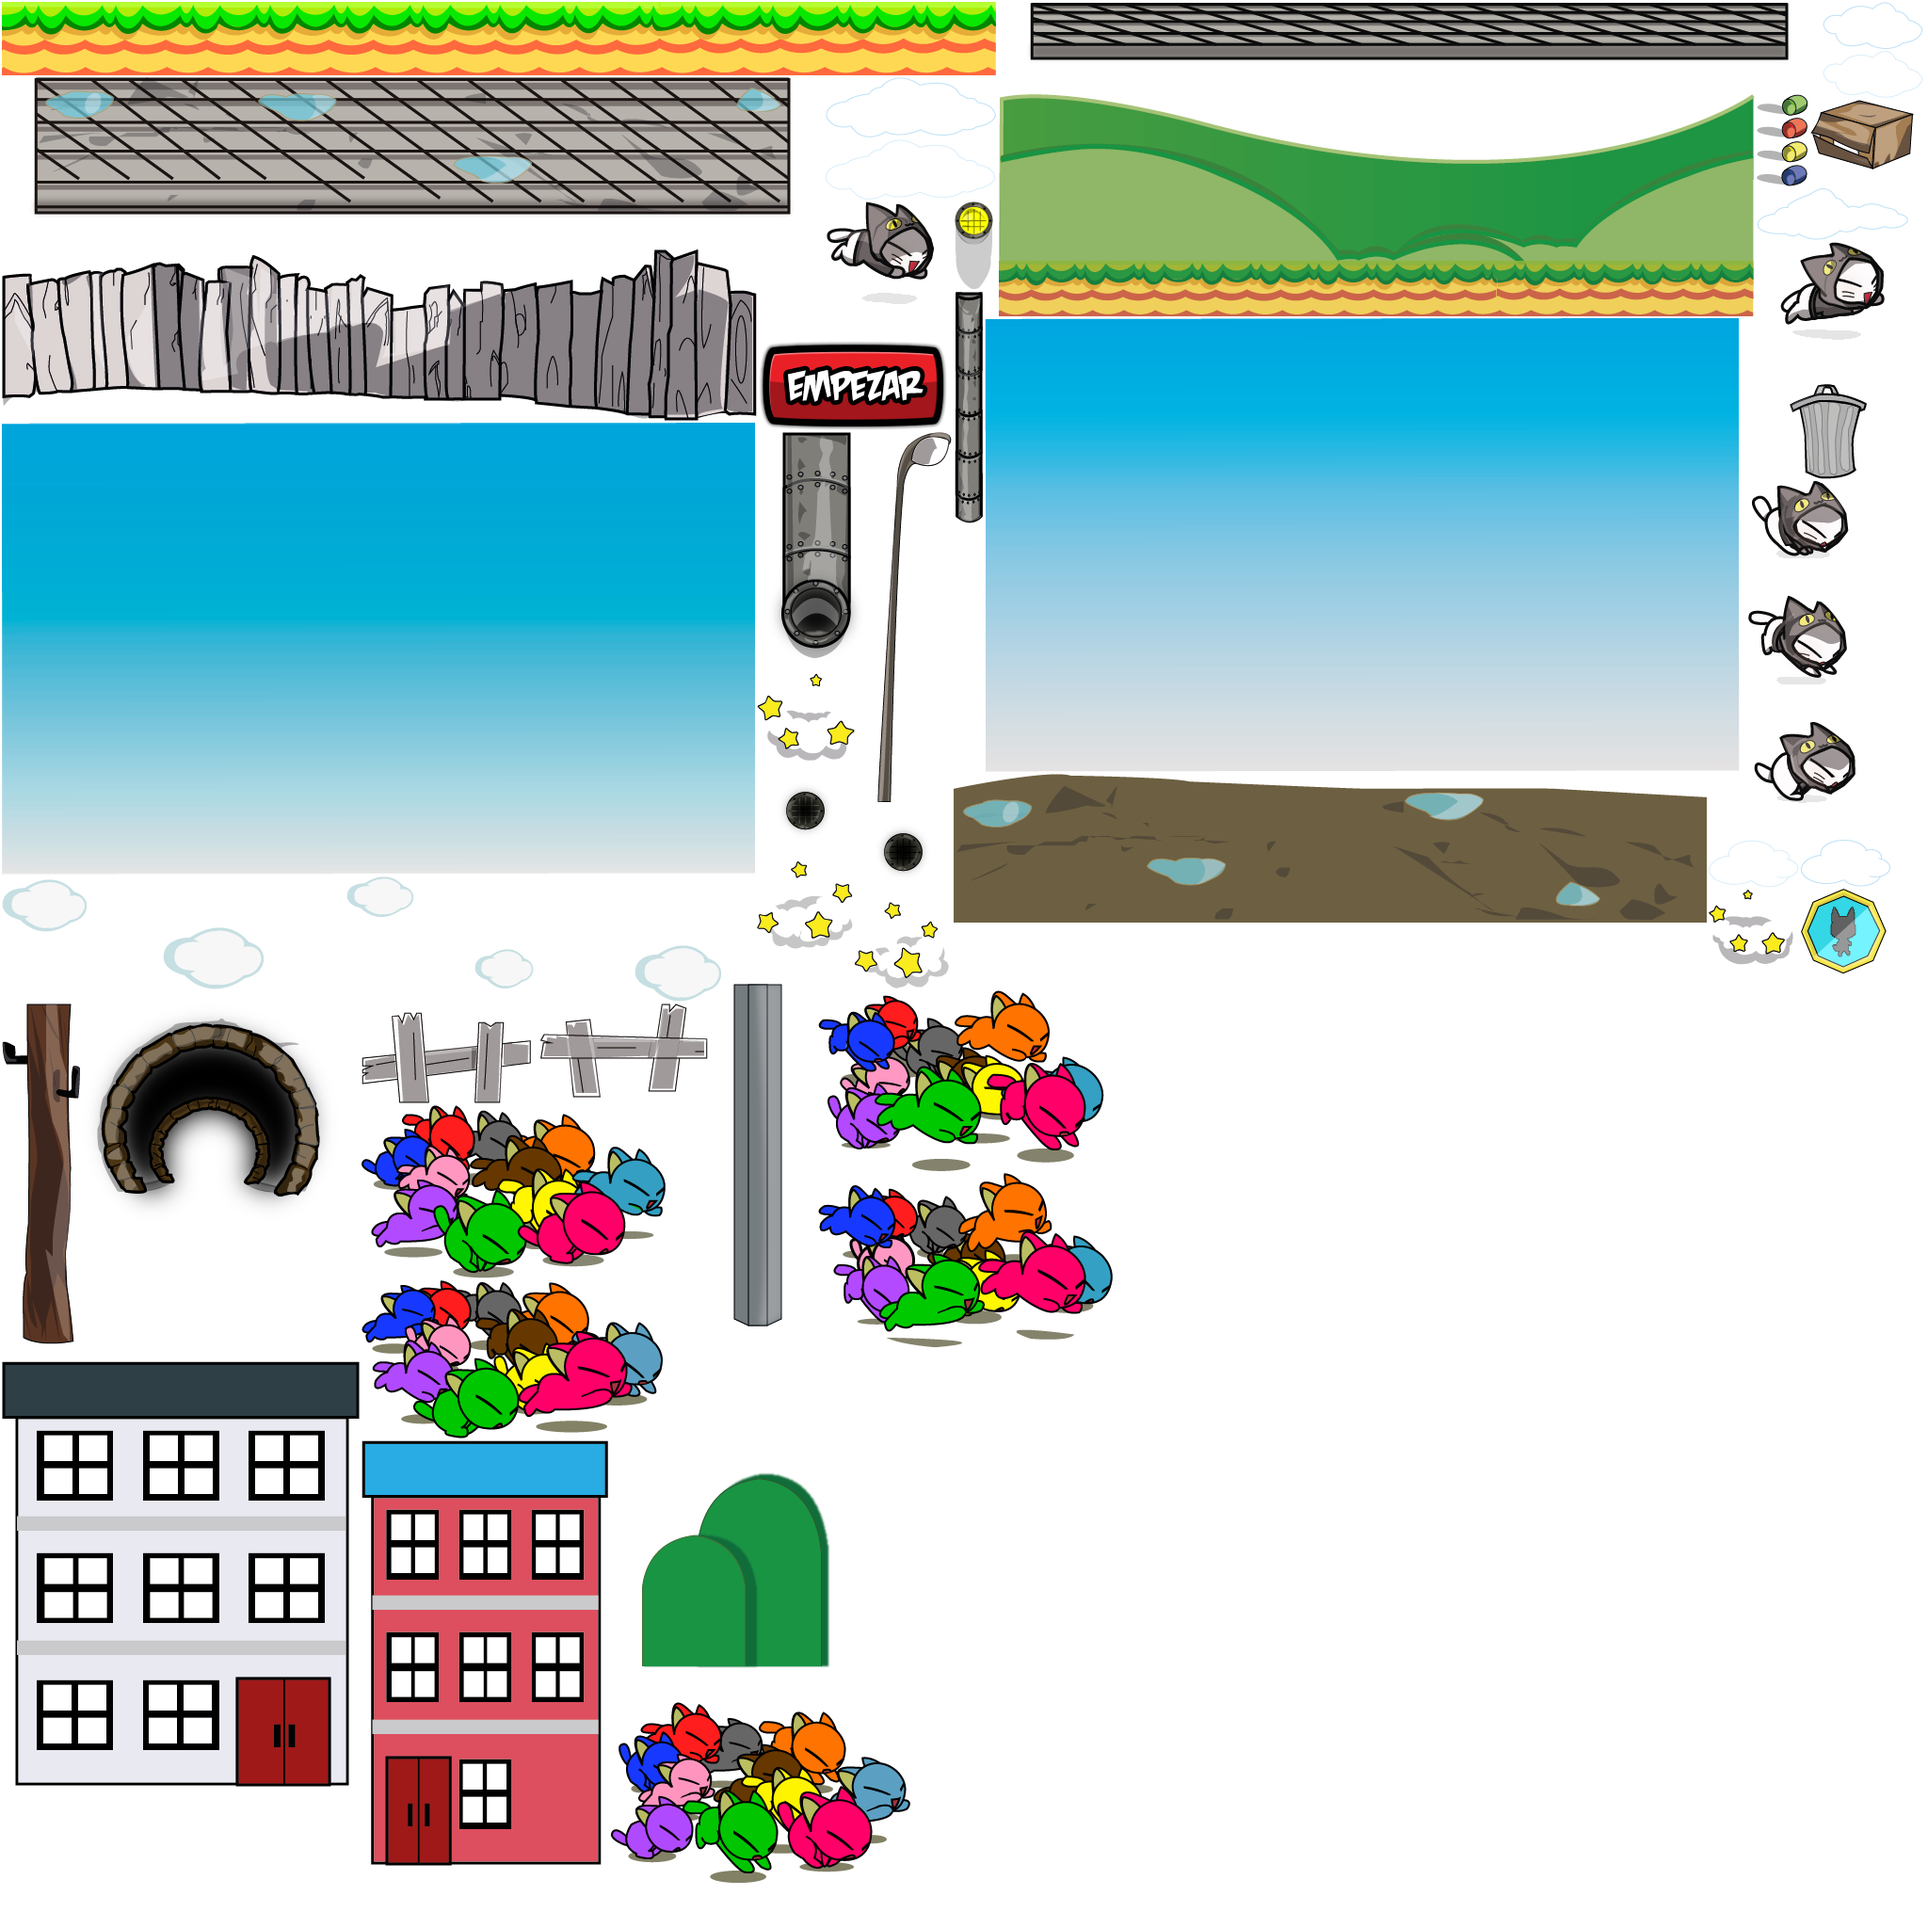
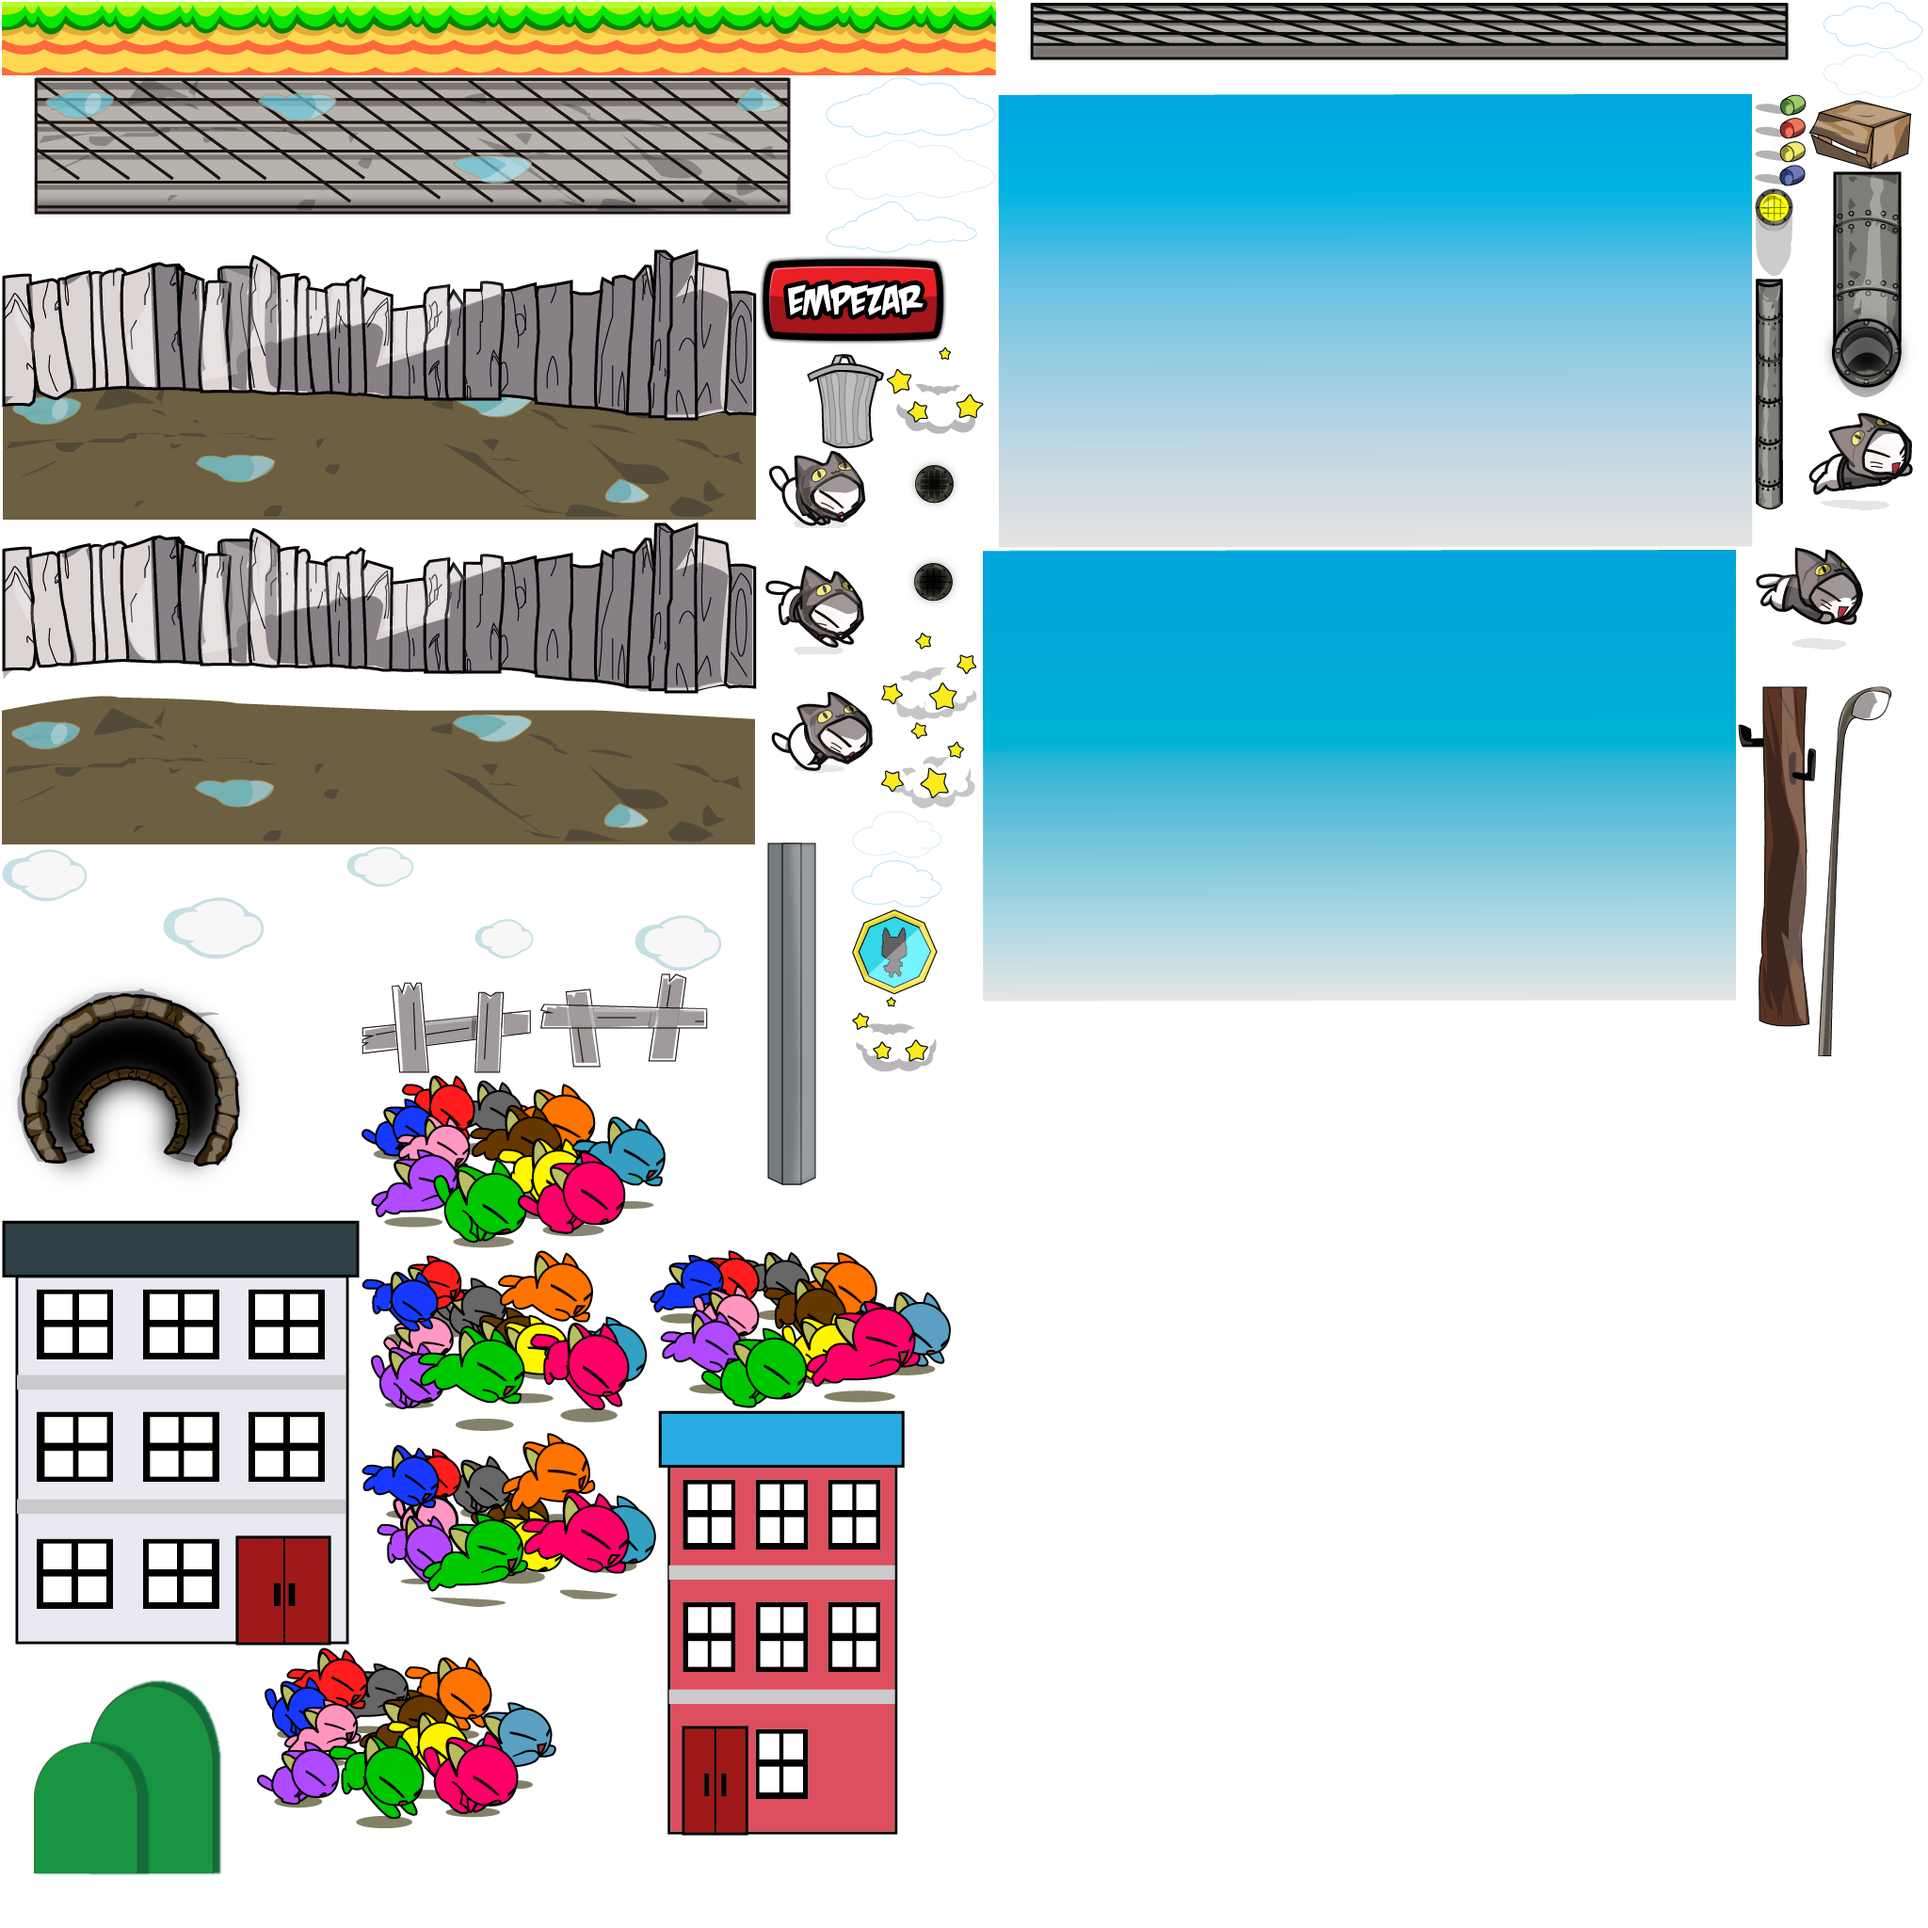
muchas cocillas modificas

diff --git a/Shoppu/src/com/me/game/WorldGame.java b/Shoppu/src/com/me/game/WorldGame.java
@@ -146,11 +146,13 @@ public class WorldGame {
 		limite_i= limi;
 		for(int i = in ; i<limi ;i++)
 		{
-		    CrearPisoTierra(i*8);
-		    crearBooster(i*5);
+		    CrearPisoTierra(i*7.5f);
+		    crearBooster(i*12);
 		    crearEdficio(i*9);
-		    crearBarandal(i*7);
 		    crearPoste(i*8);
+		    crearBoteBasura(i*9);
+		    crearCajaCarton(i*10);
+		    crearLata(i*7);
 			
 		}
     }
@@ -184,7 +186,7 @@ public class WorldGame {
 
 	private void crearLata(float x) {
 		//float x = WIDTH + 1f;
-		float y = 1.3f;
+		float y = .3f;
 
 		Lata oLat = new Lata(x, y);
 
@@ -241,7 +243,7 @@ public class WorldGame {
 	private void crearCajaCarton(float x) {
 
 		//float x = WIDTH + 3f;
-		float y = 1.5f;
+		float y = .9f;
 
 		CajaCarton oCaj = new CajaCarton(x, y);
 
@@ -268,7 +270,7 @@ public class WorldGame {
 
 	private void crearBoteBasura(float x) {
 		//float x = WIDTH + 3f;
-		float y = 1.7f;
+		float y = 1.3f;
 
 		BoteBasura oBot = new BoteBasura(x, y);
 
@@ -451,7 +453,7 @@ public class WorldGame {
 
 	private void crearPoste(float x) {
 		//float x = WIDTH + 3;
-		float y = 3f;
+		float y = 2.8f;
 
 		Poste oPos = new Poste(x, y);
 
@@ -594,7 +596,7 @@ public class WorldGame {
 	}
 	private void updateBoos(float delta, Body body) {
 		Boos obj = (Boos) body.getUserData();
-		if (obj.posicion.x <= -2) {
+		if (obj.posicion.x <= WorldGameRender.oCam.position.x-4) {
 			arrBoos.removeValue(obj, true);
 			oWorldBox.destroyBody(body);
 			return;
@@ -606,16 +608,12 @@ public class WorldGame {
 
 	private void updateLata(float delta, Body body) {
 		Lata obj = (Lata) body.getUserData();
-		if (obj.posicion.x <= -2)
+		if (obj.posicion.x <= WorldGameRender.oCam.position.x-4)
 		{
 			arrLata.removeValue(obj, true);
 			oWorldBox.destroyBody(body);
 			return;
 		}
-		if (OGato.state == Gato.State.boos) 
-			body.setLinearVelocity(-5, 0);
-		else 
-			body.setLinearVelocity(obj.VELOCIDAD_X, 0);
 		obj.update(body, delta);
 		
 
@@ -623,7 +621,7 @@ public class WorldGame {
 
 	private void updatePiso(float delta, Body body) {
 		Piso obj = (Piso) body.getUserData();
-		if (obj.posicion.x <= -4.5)
+		if (obj.posicion.x <= WorldGameRender.oCam.position.x-10)
 		{
 			arrPiso.removeValue(obj, true);
 			oWorldBox.destroyBody(body);
@@ -634,7 +632,9 @@ public class WorldGame {
 
 	private void updateEdificio(float delta, Body body) {
 		Edificio obj = (Edificio) body.getUserData();
-		if (obj.posicion.x <= -2) {
+
+		if (obj.posicion.x <= WorldGameRender.oCam.position.x-10)
+		{
 			arrEdificio.removeValue(obj, true);
 			oWorldBox.destroyBody(body);
 			return;
@@ -646,17 +646,12 @@ public class WorldGame {
 	private void updatecajaCarton(float delta, Body body) 
 	{
 		CajaCarton obj = (CajaCarton) body.getUserData();
-		if (obj.posicion.x <= -2) 
+		if (obj.posicion.x <= WorldGameRender.oCam.position.x-4)
 		{
 			arrCajacarton.removeValue(obj, true);
 			oWorldBox.destroyBody(body);
 			return;
-		}
-		if (OGato.state == Gato.State.boos) 
-			body.setLinearVelocity(-5, 0);
-		else 
-			body.setLinearVelocity(obj.VELOCIDAD_X, 0);
-		
+		}		
 		obj.update(body, delta);
 	}
 	
@@ -664,16 +659,12 @@ public class WorldGame {
 	private void updateBoteBasura(float delta, Body body) 
 	{
 		BoteBasura obj = (BoteBasura) body.getUserData();
-		if (obj.posicion.x <= -2)
+		if (obj.posicion.x <= WorldGameRender.oCam.position.x-4)
 		{
 			arrBoteBasura.removeValue(obj, true);
 			oWorldBox.destroyBody(body);
 			return;
 		}
-		if (OGato.state == Gato.State.boos) 
-			body.setLinearVelocity(-5, 0);
-		else 
-			body.setLinearVelocity(obj.VELOCIDAD_X, 0);
 		obj.update(body, delta);
 		
 	}
@@ -682,7 +673,7 @@ public class WorldGame {
 	private void updateBarandal(float delta, Body body)
 	{
 		Barandal obj = (Barandal) body.getUserData();
-		if (obj.posicion.x <= -4.5) 
+		if (obj.posicion.x <= WorldGameRender.oCam.position.x-4)
 		{
 			arrBardanl.removeValue(obj, true);
 			oWorldBox.destroyBody(body);
@@ -696,7 +687,8 @@ public class WorldGame {
 	private void updatePlataforma(float delta, Body body) 
 	{
 		Plataforma obj = (Plataforma) body.getUserData();
-		if (obj.posicion.x <= -2) {
+		if (obj.posicion.x <= WorldGameRender.oCam.position.x-4)
+		{
 			arrPlataforma.removeValue(obj, true);
 			oWorldBox.destroyBody(body);
 			return;
@@ -709,7 +701,7 @@ public class WorldGame {
 	private void updatePoste(float delta, Body body) 
 	{
 		Poste obj = (Poste) body.getUserData();
-		if (obj.posicion.x <= -2)
+		if (obj.posicion.x <= WorldGameRender.oCam.position.x-4)
 		{
 			arrPoste.removeValue(obj, true);
 			oWorldBox.destroyBody(body);
@@ -720,11 +712,19 @@ public class WorldGame {
 		
 	}
 
-	
+
 	private void updatePandilla(float delta, Body body) 
 	{
+		
+		Gdx.app.log("posicion del gato"+OGato.position.x,"   posicion de la pandilla"+ oPan.posicion.x);	
+		
 		oPan.update(body, delta);
-
+		if(oPan.posicion.x < WorldGameRender.oCam.position.x-4)
+		{
+			oPan.posicion.x=OGato.position.x - 4;
+			Gdx.app.log("ifopan","");
+			
+		}
 	}
 
 	private void updateMonedas(float delta, Body body) {

diff --git a/Shoppu/src/com/me/objetos/Pandilla.java b/Shoppu/src/com/me/objetos/Pandilla.java
@@ -21,11 +21,13 @@ public class Pandilla {
 		//actualizando las posiciones
 		posicion.x = body.getPosition().x;
 		posicion.y = body.getPosition().y;
+	
 		//Le damos la velocidad, a la derecha
 		// velociad es mayor que 8
 		// aqui es para que se muevan las plataformas y no se salga de las medidas del mundo
 		
-		body.setLinearVelocity(velocidad);
+		body.setLinearVelocity(2.05f,velocidad.y);
+		//body.setLinearVelocity(velocidad);
 		state_time += delta;
 	}
 

diff --git a/Shoppu/src/com/me/mygdxgame/Assets.java b/Shoppu/src/com/me/mygdxgame/Assets.java
@@ -131,7 +131,7 @@ public class Assets {
 		nube6 = atlas.findRegion("nube6");
 		nube7 = atlas.findRegion("nube7");
 		pisocemento = atlas.findRegion("pisocemento");
-		pisotierra = atlas.findRegion("pisotierra");
+		pisotierra = atlas.findRegion("pisoparallax");
 		postecemento = atlas.findRegion("postecemento");
 		postemadera = atlas.findRegion("postemadera");
 		

diff --git a/Shoppu/src/com/me/game/WorldGameRender.java b/Shoppu/src/com/me/game/WorldGameRender.java
@@ -186,8 +186,7 @@ public class WorldGameRender {
 			// true es que la aniimacion se repeteria muchas veces
 			keyframe = Assets.pisotierra;
 
-			batcher.draw(keyframe, oPais.posicion.x - 4f,
-					oPais.posicion.y - .7f, 8f, 1.58f);
+			batcher.draw(keyframe, oPais.posicion.x - 4f,oPais.posicion.y - .7f, 8.02f, 2.88f);
 		}
 	}
 

diff --git a/Shoppu/src/com/me/objetos/Gato.java b/Shoppu/src/com/me/objetos/Gato.java
@@ -50,7 +50,7 @@ public class Gato {
 			if(state == State.boos  )
 			{
 				timer+= delta;
-				if (timer >= 3) 
+				if (timer >= .5f) 
 				{
 					if(jump)
 					body.setLinearVelocity(10, velocidad.y);
